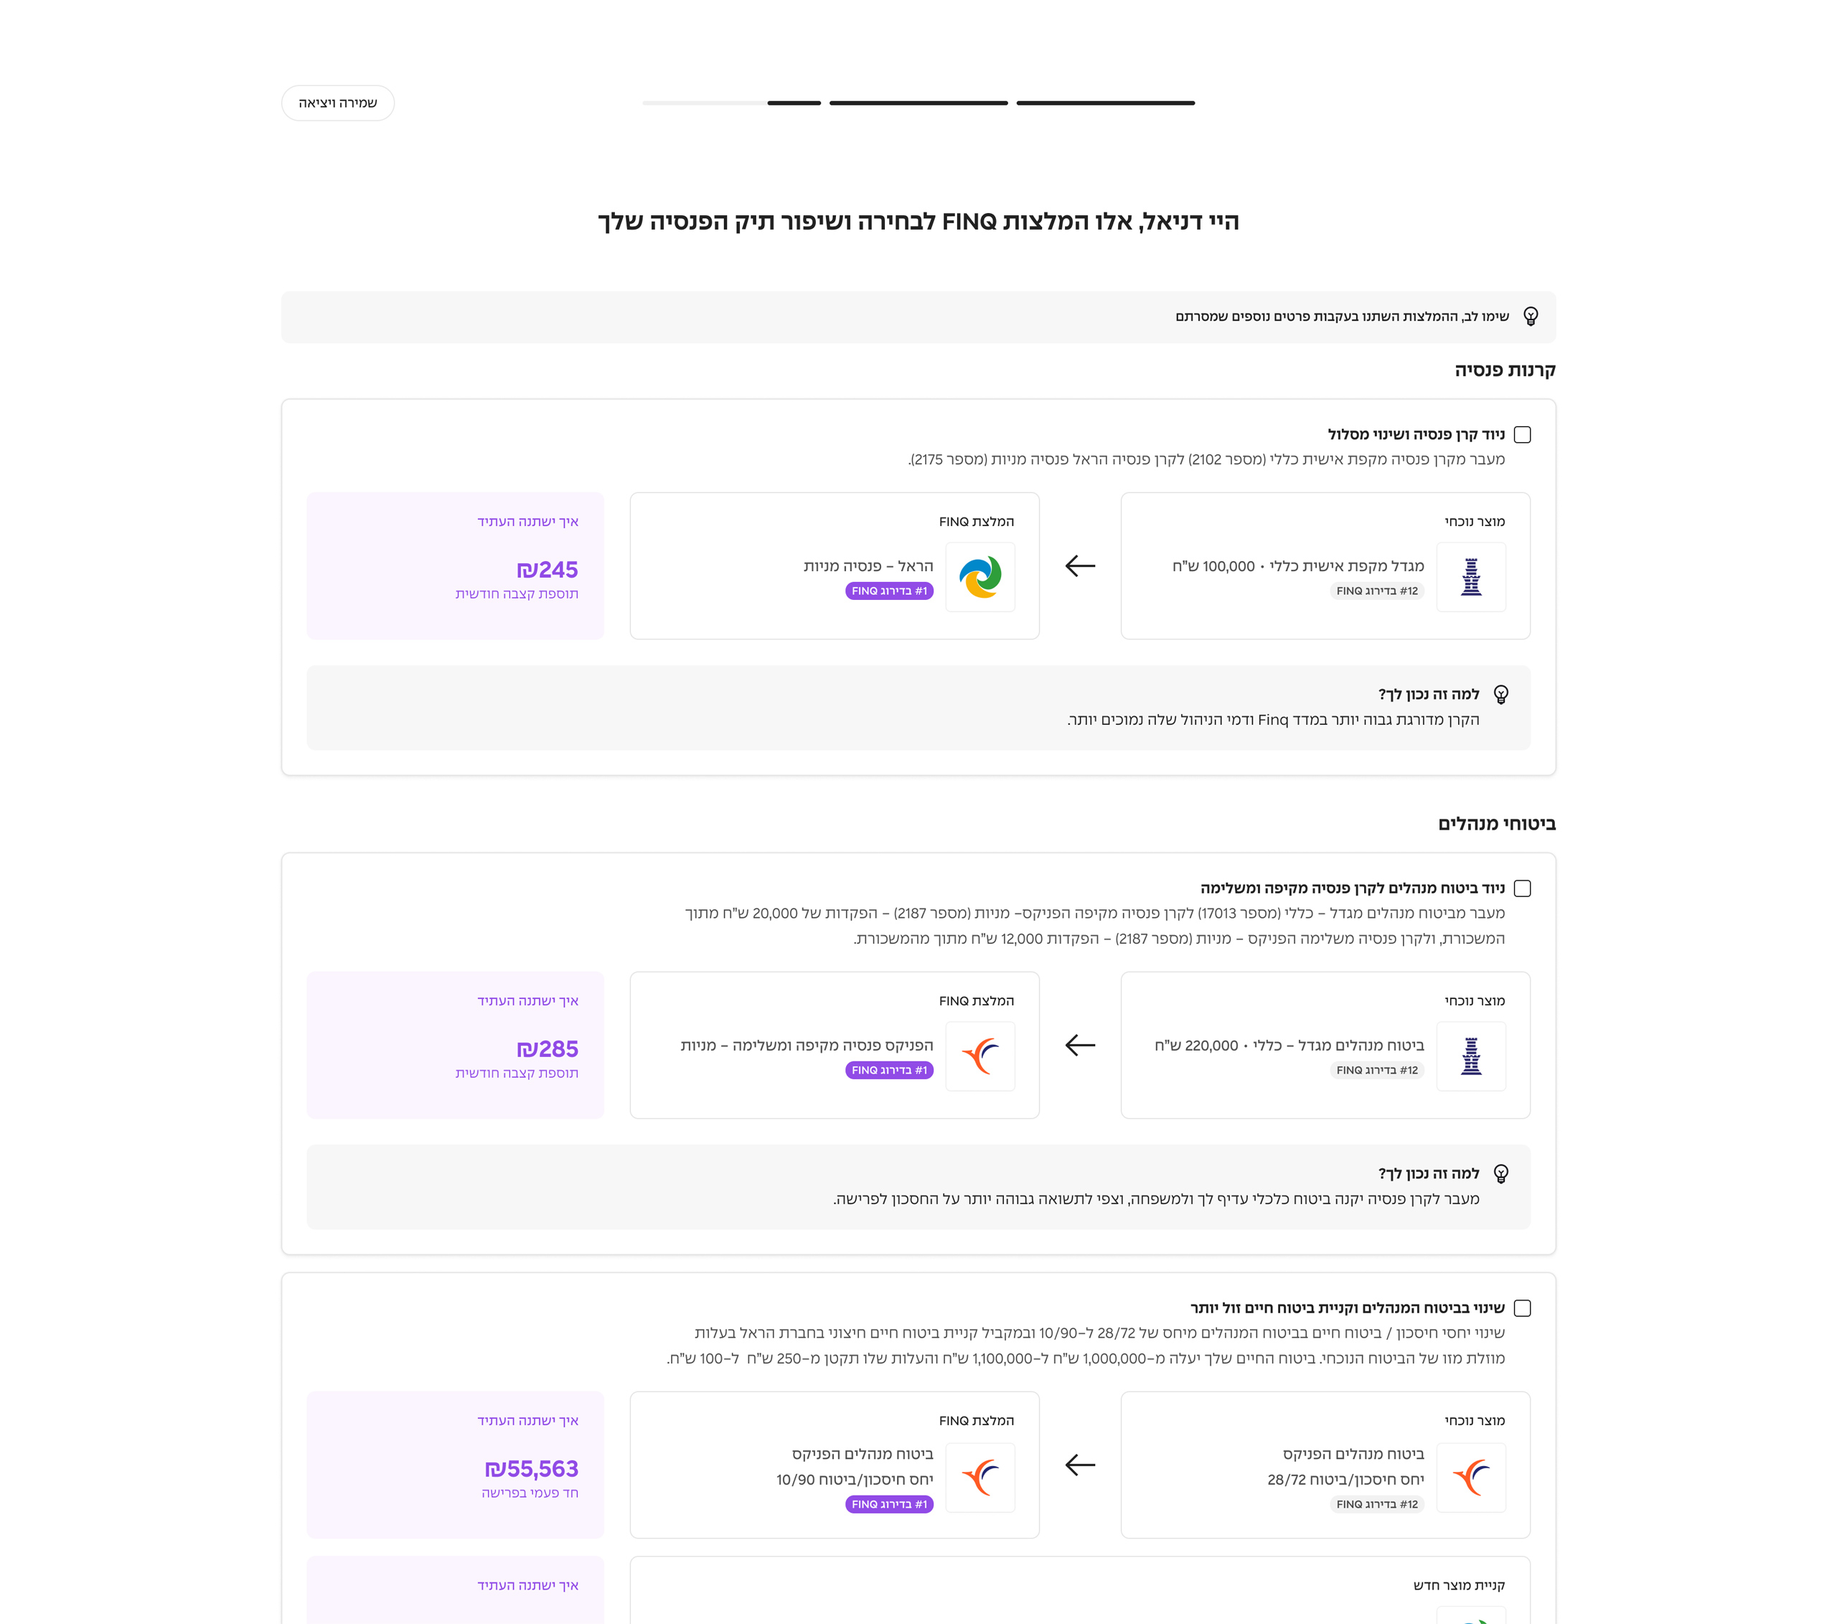
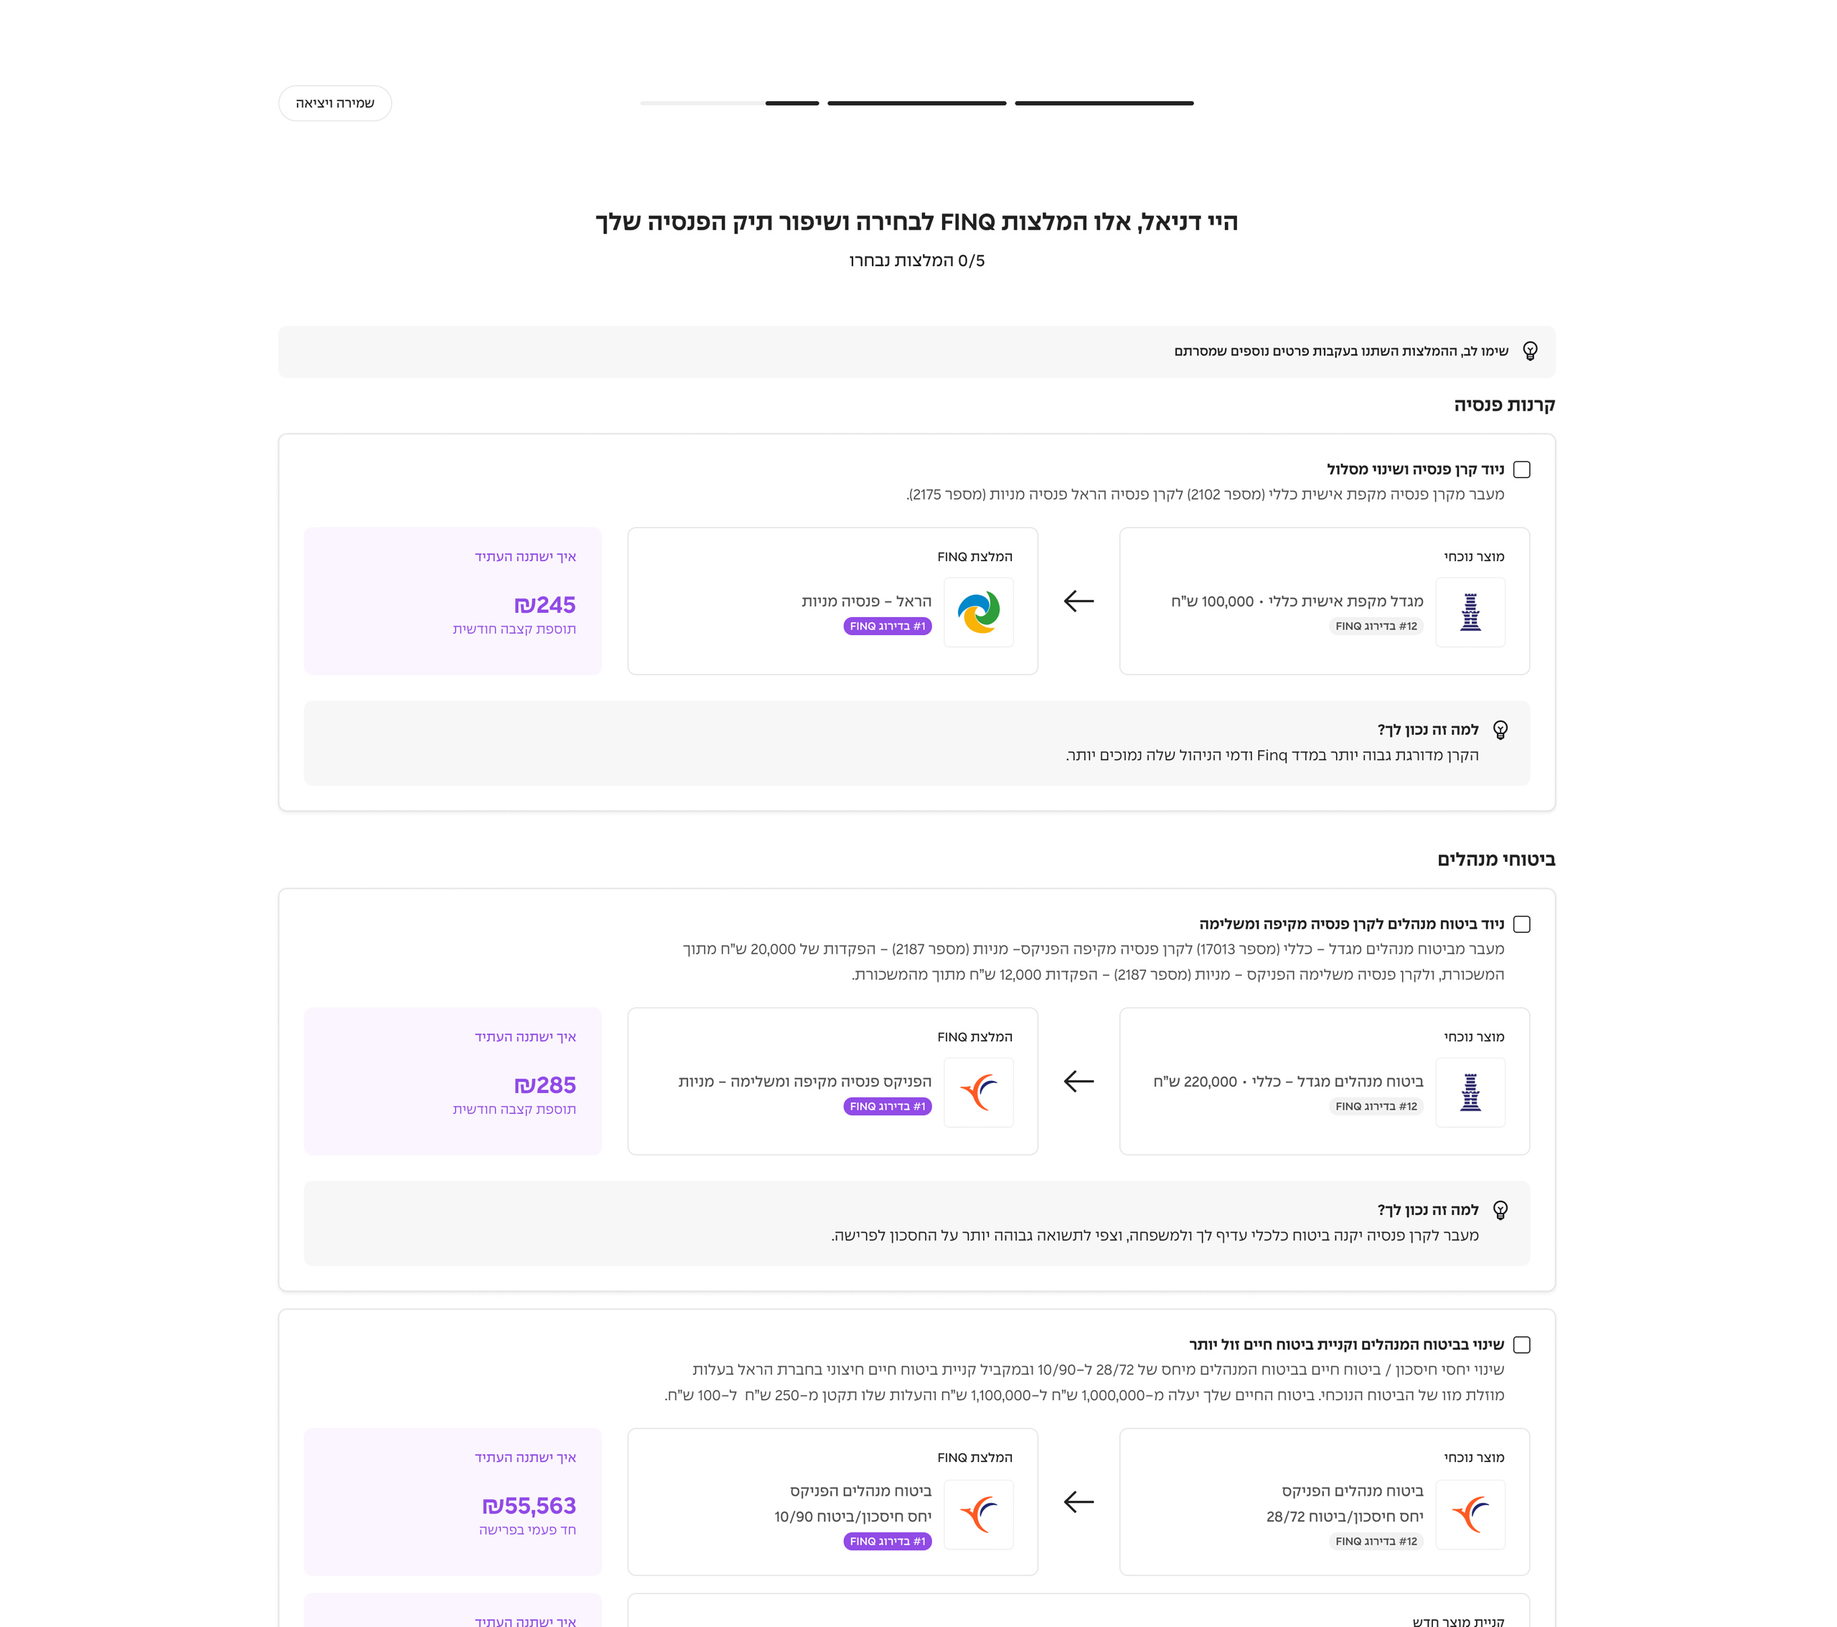
feat: add Axel project and FINQ case study improvements
- Add Axel project (car selling platform) with cover, 6 gallery images, full case study body, section labels, and pink background
- Add 4 new FINQ gallery images (onboarding desktop, homepage sketch, improve table)
- Add inline body images to FINQ case study with ownership spacing
- Add section labels (uppercase grey) to FINQ and Axel key decisions
- Remove indent from FINQ body text
- Split FINQ key decision bold titles to own lines with tighter spacing
- Update nav hover color to peach (#FF8B6A)
- Reorder all projects (Axel first, FINQ second)
- Add 404.astro redirect page for production

diff --git a/src/styles/global.css b/src/styles/global.css
@@ -40,13 +40,13 @@ img { max-width: 100%; vertical-align: middle; display: inline-block; }
   color: #353535;
   text-decoration: none;
 }
-.nav-brand:hover { color: #ff3434; }
+.nav-brand:hover { color: #FF8B6A; }
 .nav-about {
   font-size: 18px;
   color: #353535;
   text-decoration: none;
 }
-.nav-about:hover { color: #ff3434; }
+.nav-about:hover { color: #FF8B6A; }
 .nav-about.active { color: #353535; }
 
 /* ── Hero ── */
@@ -378,7 +378,7 @@ img { max-width: 100%; vertical-align: middle; display: inline-block; }
 .detail-images {
   display: flex;
   flex-direction: column;
-  gap: 24px;
+  gap: 64px;
   margin-bottom: 64px;
 }
 .detail-images img {
@@ -445,10 +445,11 @@ a.detail-external-link .material-symbols-outlined { font-size: 16px; line-height
   max-width: 760px;
 }
 .detail-body p { margin: 0 0 24px; }
+.detail-body p:has(> strong:only-child) { margin-bottom: 6px; }
 .body-image-full { width: min(1280px, 100vw - 80px); margin: 40px 0; }
 .body-image-full img { width: 100%; border-radius: 16px; display: block; border: 1px solid #f0f0f0; }
 .body-image-inline { width: min(960px, 100vw - 80px); margin: 16px 0 80px; }
-.body-image-inline img { width: 100%; border-radius: 16px; display: block; border: 1px solid #f0f0f0; }
+.body-image-inline img { width: 100%; border-radius: 16px; display: block; }
 .detail-body h2 {
   font-size: 32px;
   font-weight: 600;

diff --git a/src/content/projects/finq.md b/src/content/projects/finq.md
@@ -3,14 +3,22 @@ title: "FINQ"
 tagline: "Making high-stakes financial decisions legible without an advisor."
 type: "Fintech Product"
 role: "Product Design"
-order: 1
+order: 2
 bgColor: "#ede8f5"
 accentColor: "#410DA0"
 darkTheme: false
 coverImage: "FINQ_HP1_open.jpg"
 teaserImage: "FINQ_HP_close.jpg"
-images: []
-imageAlts: []
+images:
+  - "FINQ_Onboarding_Desktop_1.jpg"
+  - "FINQ_Onboarding_Desktop_2.jpg"
+  - "FINQ_HP_sketch.jpg"
+  - "FINQ_Desktop_Improve_Table.jpg"
+imageAlts:
+  - "FINQ onboarding flow on desktop, step 1"
+  - "FINQ onboarding flow on desktop, step 2"
+  - "FINQ homepage sketch"
+  - "FINQ desktop recommendation table view"
 client: "FINQ"
 year: "2024 – 2025"
 externalLink: "https://finqai.co.il/"
@@ -38,27 +46,37 @@ The core tension: a lot of information needs to be presented, but too much compl
 
 <p class="section-label">The recommendation interface</p>
 
-**Grouping products to create hierarchy.** Users typically arrive with multiple financial products — pension funds, insurance policies, savings — each with its own recommendation. Presenting them as a flat list would have been overwhelming. Grouping them by product type created a clear hierarchy, letting users tackle one category at a time and reducing the cognitive load of the full picture.
+**Grouping products to create hierarchy.**
+
+Users typically arrive with multiple financial products — pension funds, insurance policies, savings — each with its own recommendation. Presenting them as a flat list would have been overwhelming. Grouping them by product type created a clear hierarchy, letting users tackle one category at a time and reducing the cognitive load of the full picture.
 
 <div class="body-image-inline">
   <img src="/portfolio/images/FINQ_specific-grouping.jpg" alt="FINQ recommendation page showing products grouped by type" />
 </div>
 
-**Current vs. recommended, side by side.** The recommendation page puts what you have now and what FINQ suggests in direct comparison. Users can see the delta — not just the recommendation, but what they'd be leaving behind and what they'd gain. Understanding what you're moving away from matters as much as understanding where you're going.
+**Current vs. recommended, side by side.**
+
+The recommendation page puts what you have now and what FINQ suggests in direct comparison. Users can see the delta — not just the recommendation, but what they'd be leaving behind and what they'd gain. Understanding what you're moving away from matters as much as understanding where you're going.
 
 <div class="body-image-inline">
   <img src="/portfolio/images/FINQ_specific-replace.jpg" alt="FINQ current vs. recommended comparison view" />
 </div>
 
-**A concrete projection as the hook — but not a misleading one.** Showing a real number gives users something tangible, but a single total sum would have been dishonest: "how much you'll save overall" depends on life expectancy, which no one can predict. The solution was to show the impact per product individually rather than rolling everything up into one impressive headline figure. Each recommendation carries its own projection — what this specific fund or policy change means for your monthly income at retirement — keeping it honest and actionable without oversimplifying.
+**A concrete projection as the hook — but not a misleading one.**
 
-**"Why it's right for you."** Each recommendation surfaces a personalised rationale. Without an advisor to ask, users needed a reason to trust the suggestion. This signal was the trust layer — not generic marketing copy, but a specific explanation tied to the user's own situation.
+Showing a real number gives users something tangible, but a single total sum would have been dishonest: "how much you'll save overall" depends on life expectancy, which no one can predict. The solution was to show the impact per product individually rather than rolling everything up into one impressive headline figure. Each recommendation carries its own projection — what this specific fund or policy change means for your monthly income at retirement — keeping it honest and actionable without oversimplifying.
+
+**"Why it's right for you."**
+
+Each recommendation surfaces a personalised rationale. Without an advisor to ask, users needed a reason to trust the suggestion. This signal was the trust layer — not generic marketing copy, but a specific explanation tied to the user's own situation.
 
 <div class="body-image-inline">
   <img src="/portfolio/images/FINQ_specific-promise.jpg" alt="FINQ per-product projection showing monthly retirement income impact" />
 </div>
 
-**Splitting products into separate screens on mobile.** On desktop, all product recommendations can live on one scrollable page with enough room to breathe. On mobile, that same layout becomes an exhausting scroll — too much to process before you've even acted on anything. The solution was to break the recommendations into individual screens on mobile, one product at a time, keeping focus tight and the decision manageable.
+**Splitting products into separate screens on mobile.**
+
+On desktop, all product recommendations can live on one scrollable page with enough room to breathe. On mobile, that same layout becomes an exhausting scroll — too much to process before you've even acted on anything. The solution was to break the recommendations into individual screens on mobile, one product at a time, keeping focus tight and the decision manageable.
 
 <div class="body-image-inline">
   <img src="/portfolio/images/FINQ_Mobile_Improve.jpg" alt="FINQ recommendation page on mobile" />
@@ -66,7 +84,9 @@ The core tension: a lot of information needs to be presented, but too much compl
 
 <p class="section-label">Onboarding</p>
 
-**Onboarding that sets expectations.** The process of connecting your financial history is long. The onboarding was designed to frame the journey clearly — what you're about to do, why it matters, and what comes next — so users don't drop off before they've even started.
+**Onboarding that sets expectations.**
+
+The process of connecting your financial history is long. The onboarding was designed to frame the journey clearly — what you're about to do, why it matters, and what comes next — so users don't drop off before they've even started.
 
 <div class="body-image-inline">
   <img src="/portfolio/images/FINQ_Onboarding_Mobile.jpg" alt="FINQ onboarding flow on mobile" />
@@ -74,7 +94,9 @@ The core tension: a lot of information needs to be presented, but too much compl
 
 <p class="section-label">The homepage</p>
 
-**A progress-aware homepage.** The homepage is built to pull returning users back into an incomplete flow. A persistent component surfaces where they left off — "You're 57% through" — making it easy to continue rather than feel like they're starting over.
+**A progress-aware homepage.**
+
+The homepage is built to pull returning users back into an incomplete flow. A persistent component surfaces where they left off — "You're 57% through" — making it easy to continue rather than feel like they're starting over.
 
 <div class="body-image-inline">
   <img src="/portfolio/images/FINQ_specific-progress.jpg" alt="FINQ homepage showing user's progress resuming their flow" />

diff --git a/src/content/projects/axel.md b/src/content/projects/axel.md
@@ -1,0 +1,81 @@
+---
+title: "Axel"
+tagline: "Selling your car without the noise."
+type: "Automotive Marketplace"
+role: "Product Design"
+order: 1
+bgColor: "#FFE0EF"
+accentColor: "#222"
+darkTheme: false
+coverImage: "Axel_cover.jpg"
+teaserImage: "Axel_cover.jpg"
+images:
+  - "Axel_01-General.jpg"
+  - "Axel_02-Info-Condition.jpg"
+  - "Axel_03-Photos.jpg"
+  - "Axel_04-Additional-details.jpg"
+  - "Axel_05-Price-and-details.jpg"
+  - "Axel_06-Sign-up.jpg"
+imageAlts:
+  - "Axel listing flow — general information step"
+  - "Axel listing flow — info and condition step"
+  - "Axel listing flow — photos step"
+  - "Axel listing flow — additional details step"
+  - "Axel listing flow — price and details step"
+  - "Axel listing flow — sign up step"
+client: "Axel"
+year: "2026"
+externalLink: ""
+externalLinkLabel: ""
+description: "Axel is a platform that takes the friction out of selling a used car — handling listings, buyer outreach, and the handover process so sellers only deal with the part that matters: meeting a serious buyer."
+---
+
+## Overview & Context
+
+Selling a used car in the US is a painful experience. You post on Facebook Marketplace, Craigslist, a few other places — and within hours your inbox fills up with lowball offers, flaky buyers, and agents trying to cut themselves into the deal. For buyers, there's the opposite anxiety: can I actually trust what I'm looking at?
+
+Axel's answer is to take the whole process off the seller's plate. You upload your car — photos, registration, details — and Axel handles everything else: syndicating the listing, fielding inquiries, screening buyers. When a serious buyer is found, seller and buyer meet once, and a third party manages the money and title transfer. No negotiating with strangers, no wasted weekends.
+
+My scope was the seller listing flow and contributing to the design system being built alongside it.
+
+## The Problem
+
+The listing flow was the entry point — the moment a seller commits to the platform. It had to do two things at once: collect a significant amount of information (photos at specific angles, pricing, registration, vehicle history) while keeping the seller motivated through a process that was inherently long.
+
+The core tension: if sellers don't complete the flow, Axel has nothing to work with. But if the flow feels like a burden, they abandon it. Every step needed to justify itself.
+
+## Key Decisions
+
+<p class="section-label">Setting expectations upfront</p>
+
+**Qualifying sellers at the start.**
+
+Not every car — or every seller — is the right fit for Axel. Rather than let people discover this halfway through a long form, the flow surfaces the qualification criteria right at the beginning. Sellers who don't qualify exit early, before investing time. Sellers who do qualify enter with a clear sense of what they're signing up for.
+
+**FAQ access throughout.**
+
+A persistent FAQ entry point in the top-right gives sellers a way to answer their own questions without derailing the flow. In a process with this many steps, ambient reassurance matters.
+
+<p class="section-label">Getting through the hard part</p>
+
+**Structured photo guidance.**
+
+Photos are one of the biggest drop-off points in any listing flow. Axel requires shots from specific angles — enough to give buyers confidence, but only what's actually necessary. The flow guides sellers through each angle one at a time rather than presenting a blank upload screen.
+
+**Inline tips along the way.**
+
+Rather than front-loading instructions, contextual tips appear at the relevant step. A tip about pricing lands next to the pricing input; a tip about photo quality appears during the photo step. This keeps the flow from feeling like a lecture while still giving sellers what they need to succeed.
+
+<p class="section-label">Giving something back</p>
+
+**A price estimate as a milestone.**
+
+After the first section of the flow is complete, sellers receive a market-based price range for their car — a concrete output that makes the effort feel worthwhile before they've finished. It shifts the experience from "filling out a form" to "getting something useful."
+
+**Communicating Axel's value along the way.**
+
+The benefits of the platform — no lowball offers, no agent spam, a clean handover — are surfaced progressively through the flow rather than only on the landing page. Sellers who are mid-process are the most receptive audience for why this is worth their time.
+
+## Outcome
+
+The listing flow was designed and handed off as part of a broader engagement that also included establishing the design system used across the product. As a freelance contributor, I wasn't involved in post-launch measurement — but the work addressed a real structural challenge: making a high-friction onboarding feel purposeful rather than exhausting.

diff --git a/src/content/projects/medium-article.md b/src/content/projects/medium-article.md
@@ -3,7 +3,7 @@ title: "Medium Article"
 tagline: "How to create better alignment between product managers & product designers."
 type: "Article"
 role: "Research & Writing"
-order: 4
+order: 5
 bgColor: "#ffcc00"
 accentColor: "#222"
 darkTheme: false

diff --git a/src/content/projects/sweet-salty.md b/src/content/projects/sweet-salty.md
@@ -3,7 +3,7 @@ title: "Sweet/Salty"
 tagline: "A recipe site built for the cook, not the search engine."
 type: "Self-initiated"
 role: "Concept, Design, Development"
-order: 2
+order: 3
 bgColor: "#ffd6c7"
 accentColor: "#ff5d0c"
 darkTheme: false

diff --git a/src/content/projects/the-freelancer.md b/src/content/projects/the-freelancer.md
@@ -3,7 +3,7 @@ title: "The Freelancer"
 tagline: "Alternative way for freelancers to offer services on Fiverr."
 type: "Conceptual"
 role: "Concept & Design"
-order: 6
+order: 7
 bgColor: "#ffe1c3"
 accentColor: "#ff5d0c"
 darkTheme: false

diff --git a/src/content/projects/fiverare.md b/src/content/projects/fiverare.md
@@ -3,7 +3,7 @@ title: "Fiverare"
 tagline: "The art marketplace for creating & trading NFT."
 type: "Conceptual"
 role: "Concept & Design"
-order: 3
+order: 4
 bgColor: "#d1d7e9"
 accentColor: "#0038ff"
 darkTheme: false

diff --git a/src/content/projects/fiverr-business.md b/src/content/projects/fiverr-business.md
@@ -3,7 +3,7 @@ title: "Fiverr Business"
 tagline: "Fiverr desktop app for businesses."
 type: "Conceptual"
 role: "Concept & Design"
-order: 5
+order: 6
 bgColor: "#e3d2e9"
 accentColor: "#190e81"
 darkTheme: false

diff --git a/src/content/projects/fiverr-showreel.md b/src/content/projects/fiverr-showreel.md
@@ -3,7 +3,7 @@ title: "Fiverr Showreel"
 tagline: "Different projects & initiatives."
 type: "Showreel"
 role: "Art Direction"
-order: 7
+order: 8
 bgColor: "#0f5533"
 accentColor: "#fff"
 darkTheme: true

diff --git a/src/content/projects/noun-project-icons.md b/src/content/projects/noun-project-icons.md
@@ -3,7 +3,7 @@ title: "Noun Project Icons"
 tagline: "Various icons."
 type: "Icons"
 role: "Design"
-order: 8
+order: 9
 bgColor: "#222"
 accentColor: "#fff"
 darkTheme: true
